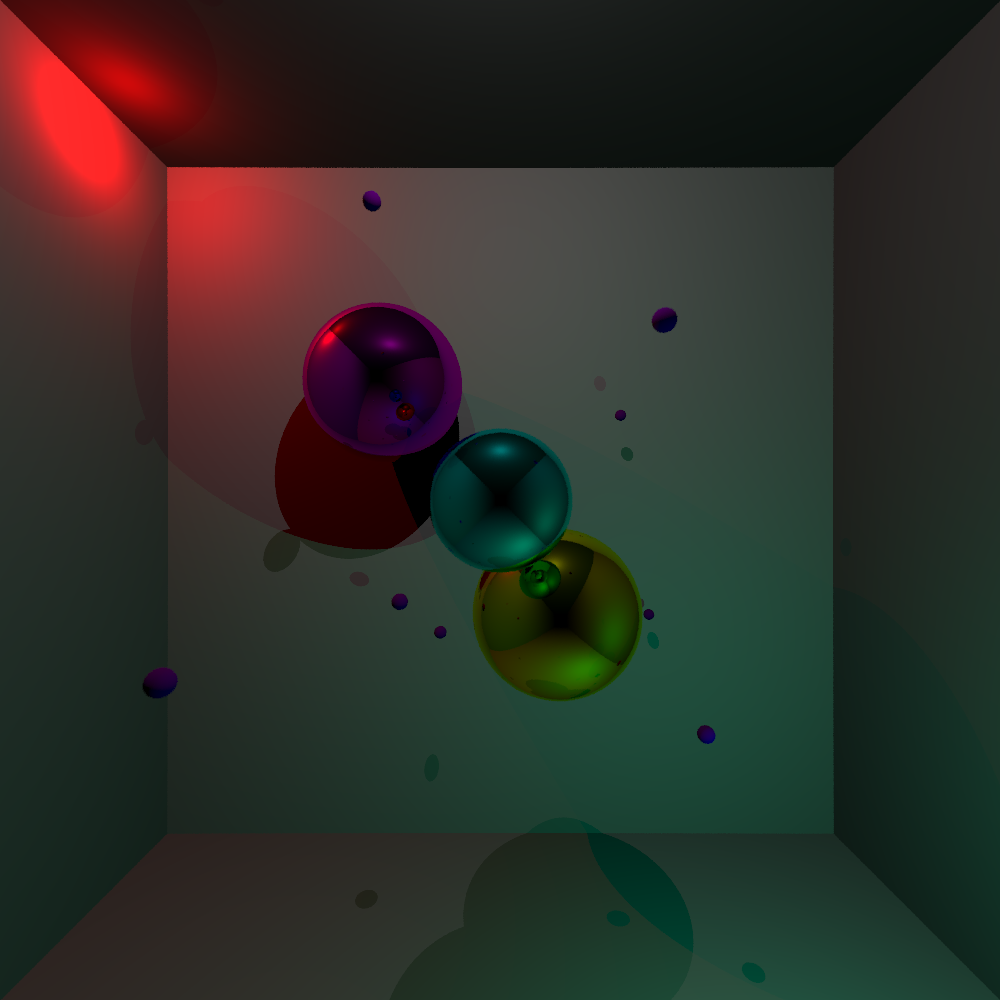
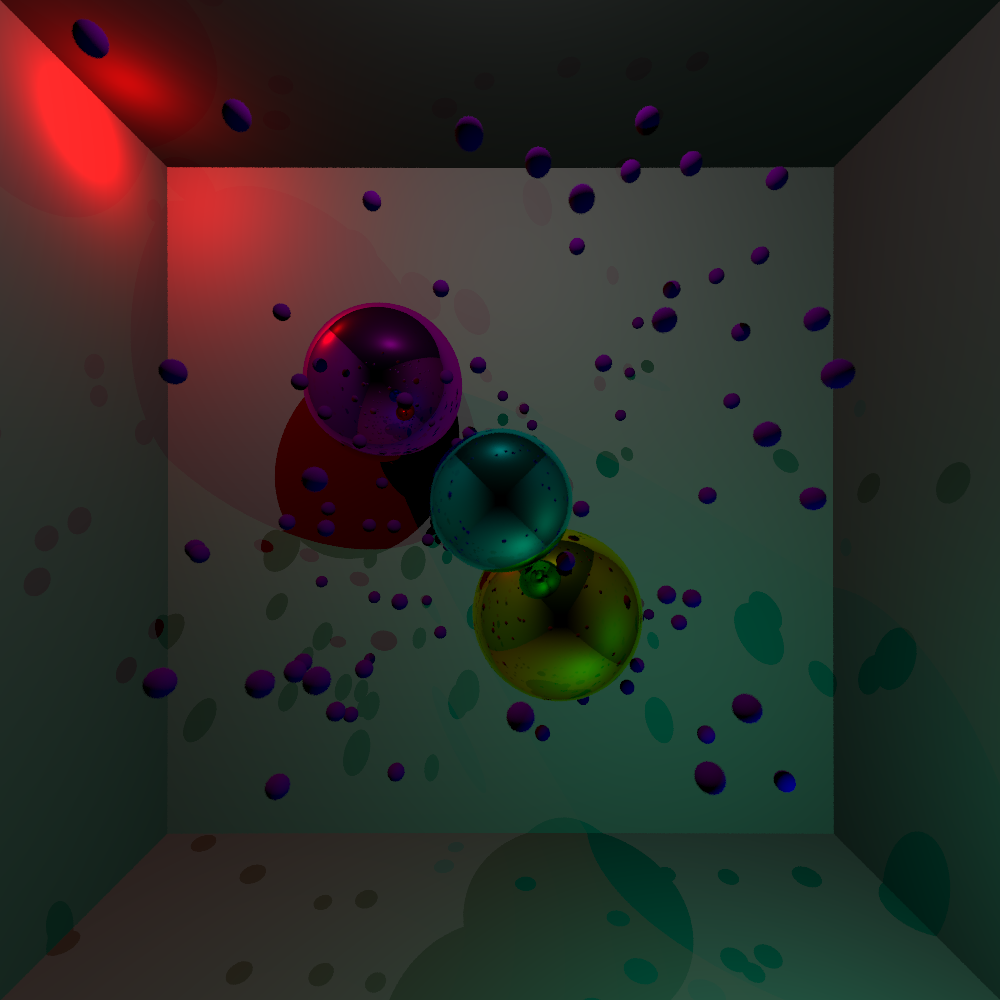
BVH : first version finished : we can search for the closest intersection with the BVH

diff --git a/TP2/Synthese_TP2/BVHNode.cpp b/TP2/Synthese_TP2/BVHNode.cpp
@@ -116,6 +116,82 @@ BVHNode BVHNode::createBVHNode(std::vector<std::shared_ptr<SceneObject>> &sceneO
 
 }
 
+std::optional<std::shared_ptr<SceneObject>> BVHNode::findClosestIntersection(const Ray &ray, glm::vec3 &position, glm::vec3 &normal, float &t) {
+
+	//Small optimization : if this BBox found an intersection that is FURTHER than the last previous one found, we directly return nullopt, we don't have to go further in the tree
+	//That means : we need an argument for the previous t value found in the search
+
+	//If the current BBox is NOT intersected by the ray, we return nullopt
+	if (!m_bbox.intersect(ray)) {
+		return std::nullopt;
+	}
+
+	//If the current node is a leaf
+	if (isLeaf()) {
+		//We try to intersect the stored scene object
+		if (m_sceneObject->intersect(ray, position, normal, t)) {
+			//If we do intersect the scene object, we return it's position, normal and t value (already computed in above intersect method)
+			return { m_sceneObject };
+		}
+
+		//If we do not intersect the stored scene object, we return nullopt
+		return std::nullopt;
+	}
+
+	//Else : not a leaf
+
+	//Compute each child closest intersection
+	float leftChild_t;
+	glm::vec3 leftChild_position;
+	glm::vec3 leftChild_normal;
+	std::optional<std::shared_ptr<SceneObject>> leftChildIntersectedObject = m_leftChild->findClosestIntersection(ray, leftChild_position, leftChild_normal, leftChild_t);
+
+	float rightChild_t;
+	glm::vec3 rightChild_position;
+	glm::vec3 rightChild_normal;
+	std::optional<std::shared_ptr<SceneObject>> rightChildIntersectedObject = m_rightChild->findClosestIntersection(ray, rightChild_position, rightChild_normal, rightChild_t);
+
+	//4 cases : nothing found, one of them is found, two of them found
+
+	//If nothing found, returning nullopt
+	if (!rightChildIntersectedObject && !leftChildIntersectedObject) {
+		return std::nullopt;
+	}
+
+	//Only left child has an intersection, return left intersection
+	if (!rightChildIntersectedObject) { 
+		position = leftChild_position;
+		normal = leftChild_normal;
+		t = leftChild_t;
+		return leftChildIntersectedObject;
+	}
+
+	//Only right child has an intersection, return right intersection
+	if (!leftChildIntersectedObject) {
+		position = rightChild_position;
+		normal = rightChild_normal;
+		t = rightChild_t;
+		return rightChildIntersectedObject;
+	}
+
+	//Each child found something, return closest intersection (depending on theit t values)
+	
+	//Right child is closest
+	if (rightChild_t < leftChild_t) {
+		position = rightChild_position;
+		normal = rightChild_normal;
+		t = rightChild_t;
+		return rightChildIntersectedObject;
+	}
+
+	//Left child is closest
+	position = leftChild_position;
+	normal = leftChild_normal;
+	t = leftChild_t;
+	return leftChildIntersectedObject;
+
+}
+
 bool BVHNode::isLeaf() const {
 	// Only need to evaluate the left child since both are linked : if one is created the other is also created.
 	return m_leftChild == nullptr;

diff --git a/TP2/Synthese_TP2/Scene.cpp b/TP2/Synthese_TP2/Scene.cpp
@@ -9,14 +9,12 @@ Scene::Scene(unsigned int width, unsigned int height, std::shared_ptr<Camera> ca
     : m_width(width), m_height(height), m_camera(camera), m_backgroundColor(backgroundColor),
       m_gen(757617000), m_disPosition(0.0f, std::nextafter(1000.0f, DBL_MAX)),
       m_disSize(1.0f, std::nextafter(50.0f, DBL_MAX)), m_disOffsetRay(-1.0f, std::nextafter(1.0f, DBL_MAX))
-{
-    createScene();
-}
+{}
 
 Scene::~Scene() {}
 
 
-void Scene::createScene() {
+void Scene::createScene(unsigned int nbGenerated) {
     m_lightList.emplace_back(glm::vec3(-900, -900, 700), color3(1000000, 0, 0));
     m_lightList.emplace_back(glm::vec3(0, -800, 0), color3(1000000, 1000000, 1000000));
     m_lightList.emplace_back(glm::vec3(500, 500, 0), color3(0, 1000000, 500000));
@@ -41,13 +39,12 @@ void Scene::createScene() {
     m_objectList.emplace_back(std::shared_ptr<SceneObject>(new Sphere(color3(1, 1, 0), SceneObjectType::REFLECTIVE, glm::vec3(100, 200, 400), 150)));
     m_objectList.emplace_back(std::shared_ptr<SceneObject>(new Sphere(color3(1, 0, 1), SceneObjectType::REFLECTIVE, glm::vec3(-300, -300, 800), 200)));
 
-    generateSphere(10);
+    generateSphere(nbGenerated);
 }
 
 void Scene::generateSphere(unsigned int nb) {
 
-    for (unsigned int i = 0; i < nb; i++)
-    {
+    for (unsigned int i = 0; i < nb; i++) {
         glm::vec3 position(m_disPosition(m_gen)-500.0f, m_disPosition(m_gen)-500.0f, m_disPosition(m_gen)); //[0, 1000] * 3
 
         //float size = m_disSize(m_gen); // [1.0f, 50.0f]
@@ -222,6 +219,19 @@ std::optional<std::shared_ptr<SceneObject>> Scene::findClosestIntersection(const
     if (m_objectList.size() == 0) {
         return std::nullopt;
     }
+
+
+    if (m_BVHroot) {
+        float t = std::numeric_limits<float>::infinity();
+
+        std::optional<std::shared_ptr<SceneObject>> closestFromBVH = m_BVHroot->findClosestIntersection(ray, position, normal, t);
+
+        if (t == std::numeric_limits<float>::infinity()) {
+            return std::nullopt;
+        }
+        return closestFromBVH;
+    }
+
 
     // Object to return (if intersected)
     std::shared_ptr<SceneObject> closestObject;

diff --git a/TP2/Synthese_TP2/Scene.h b/TP2/Synthese_TP2/Scene.h
@@ -49,6 +49,7 @@ public:
 	Scene(unsigned int width, unsigned int height, std::shared_ptr<Camera> camera, const color3 &backgroundColor);
 	~Scene();
 
+	void createScene(unsigned int nbGenerated);
 	void buildStructure();
 
 	void renderImage(const std::string &fileName, unsigned int nbCastPerPixel, unsigned int maxBounce);
@@ -58,7 +59,6 @@ public:
 	static color3 CalculateIntensity(const glm::vec3 &position, const glm::vec3 &normal, const Light &light, const Ray &toLightRay, const color3 &albedo);
 
 private:
-	void createScene();
 	void generateSphere(unsigned int nb);
 
 	color3 rayTracePixel(const Ray &ray, unsigned int bounceCounter);

diff --git a/TP2/Synthese_TP2/Synthese_TP2.cpp b/TP2/Synthese_TP2/Synthese_TP2.cpp
@@ -32,6 +32,7 @@ int main()
     unsigned int height = 1000;
     unsigned int nbRayCastPerPixel = 8;
     unsigned int maxDepth = 3;
+    unsigned int nbGenerated = 100;
 
     // Orthogonal Camera
     //std::shared_ptr<Camera> cam = std::shared_ptr<OrthographicCamera>(new OrthographicCamera(width, height, glm::vec3(0, 0, 0), glm::vec3(0, 0, 1)) );
@@ -43,6 +44,7 @@ int main()
 
     /** Creating Scene **/
     Scene scene(width, height, std::move(cam), color3(0, 0, 0));
+    scene.createScene(nbGenerated);
 
 
     ///** Bounce Test **/

diff --git a/TP2/Synthese_TP2/BVHNode.h b/TP2/Synthese_TP2/BVHNode.h
@@ -3,6 +3,7 @@
 //As Bounding Volume Hierarchy
 
 #include <memory>
+#include <optional>
 
 #include "AABB.h"
 #include "SceneObject.h"
@@ -21,6 +22,7 @@ public:
 
 public:
 	bool isLeaf() const;
+	std::optional<std::shared_ptr<SceneObject>> findClosestIntersection(const Ray &ray, glm::vec3 &position, glm::vec3 &normal, float &t);
 
 	static BVHNode createBVHNode(std::vector<std::shared_ptr<SceneObject>> &sceneObjects); // Factory Method
 	static AABB getAABB(std::vector<std::shared_ptr<SceneObject>> &sceneObjects); // Factory Method

diff --git a/TP2/Synthese_TP2/AABB.h b/TP2/Synthese_TP2/AABB.h
@@ -18,7 +18,7 @@ private:
 
 public:
 	AABB(const glm::vec3 &minBorder, const glm::vec3 &maxBorder);
-	bool intersect(const Ray &r);
+	bool intersect(const Ray &r) const;
 
 	const glm::vec3 & maximum() const;
 	const glm::vec3 & minimum() const;

diff --git a/TP2/Synthese_TP2/AABB.cpp b/TP2/Synthese_TP2/AABB.cpp
@@ -13,7 +13,7 @@ const glm::vec3 & AABB::minimum() const {
 	return bounds[0];
 }
 
-bool AABB::intersect(const Ray &r) {
+bool AABB::intersect(const Ray &r) const {
 
 	float tmin, tmax, tymin, tymax, tzmin, tzmax;
 
